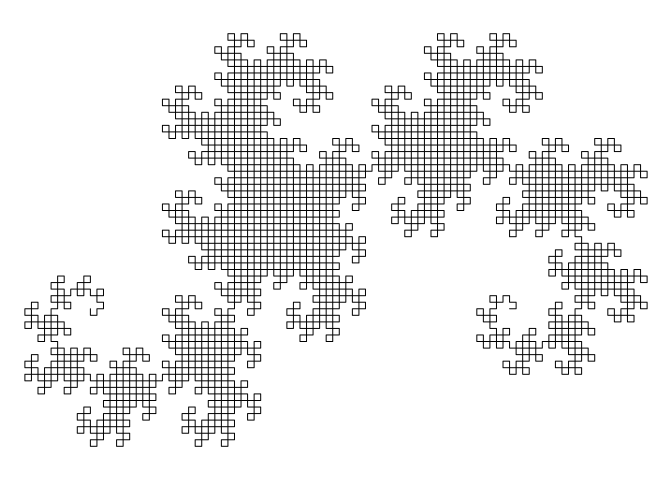
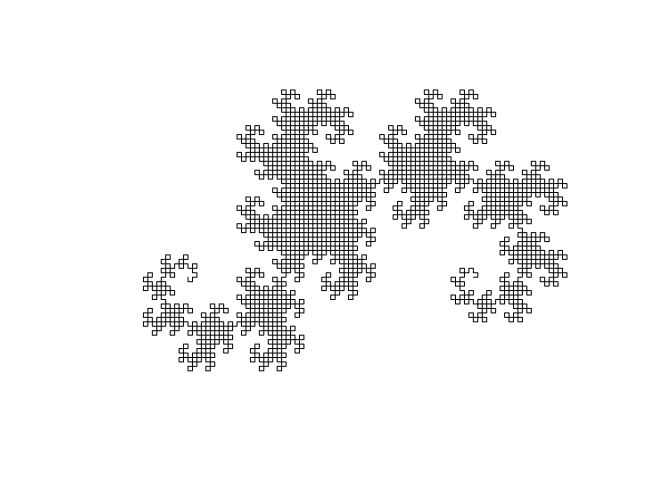
next test

Changed region(s): [[0.0312, 0.0625, 0.9688, 0.9375]]

diff --git a/README.md b/README.md
@@ -44,8 +44,8 @@ plot(m)
 **Sandpiles** (TODO: link to wikipedia)
 
 ``` r
-s <- sandpile(10000)
+s <- sandpile(1e5)
 plot(s)
 ```
 
-<img src="man/figures/README-sandpile-1.png" width="100%" />
+<img src="man/figures/README-sandpile-1.png" width="233px" />
